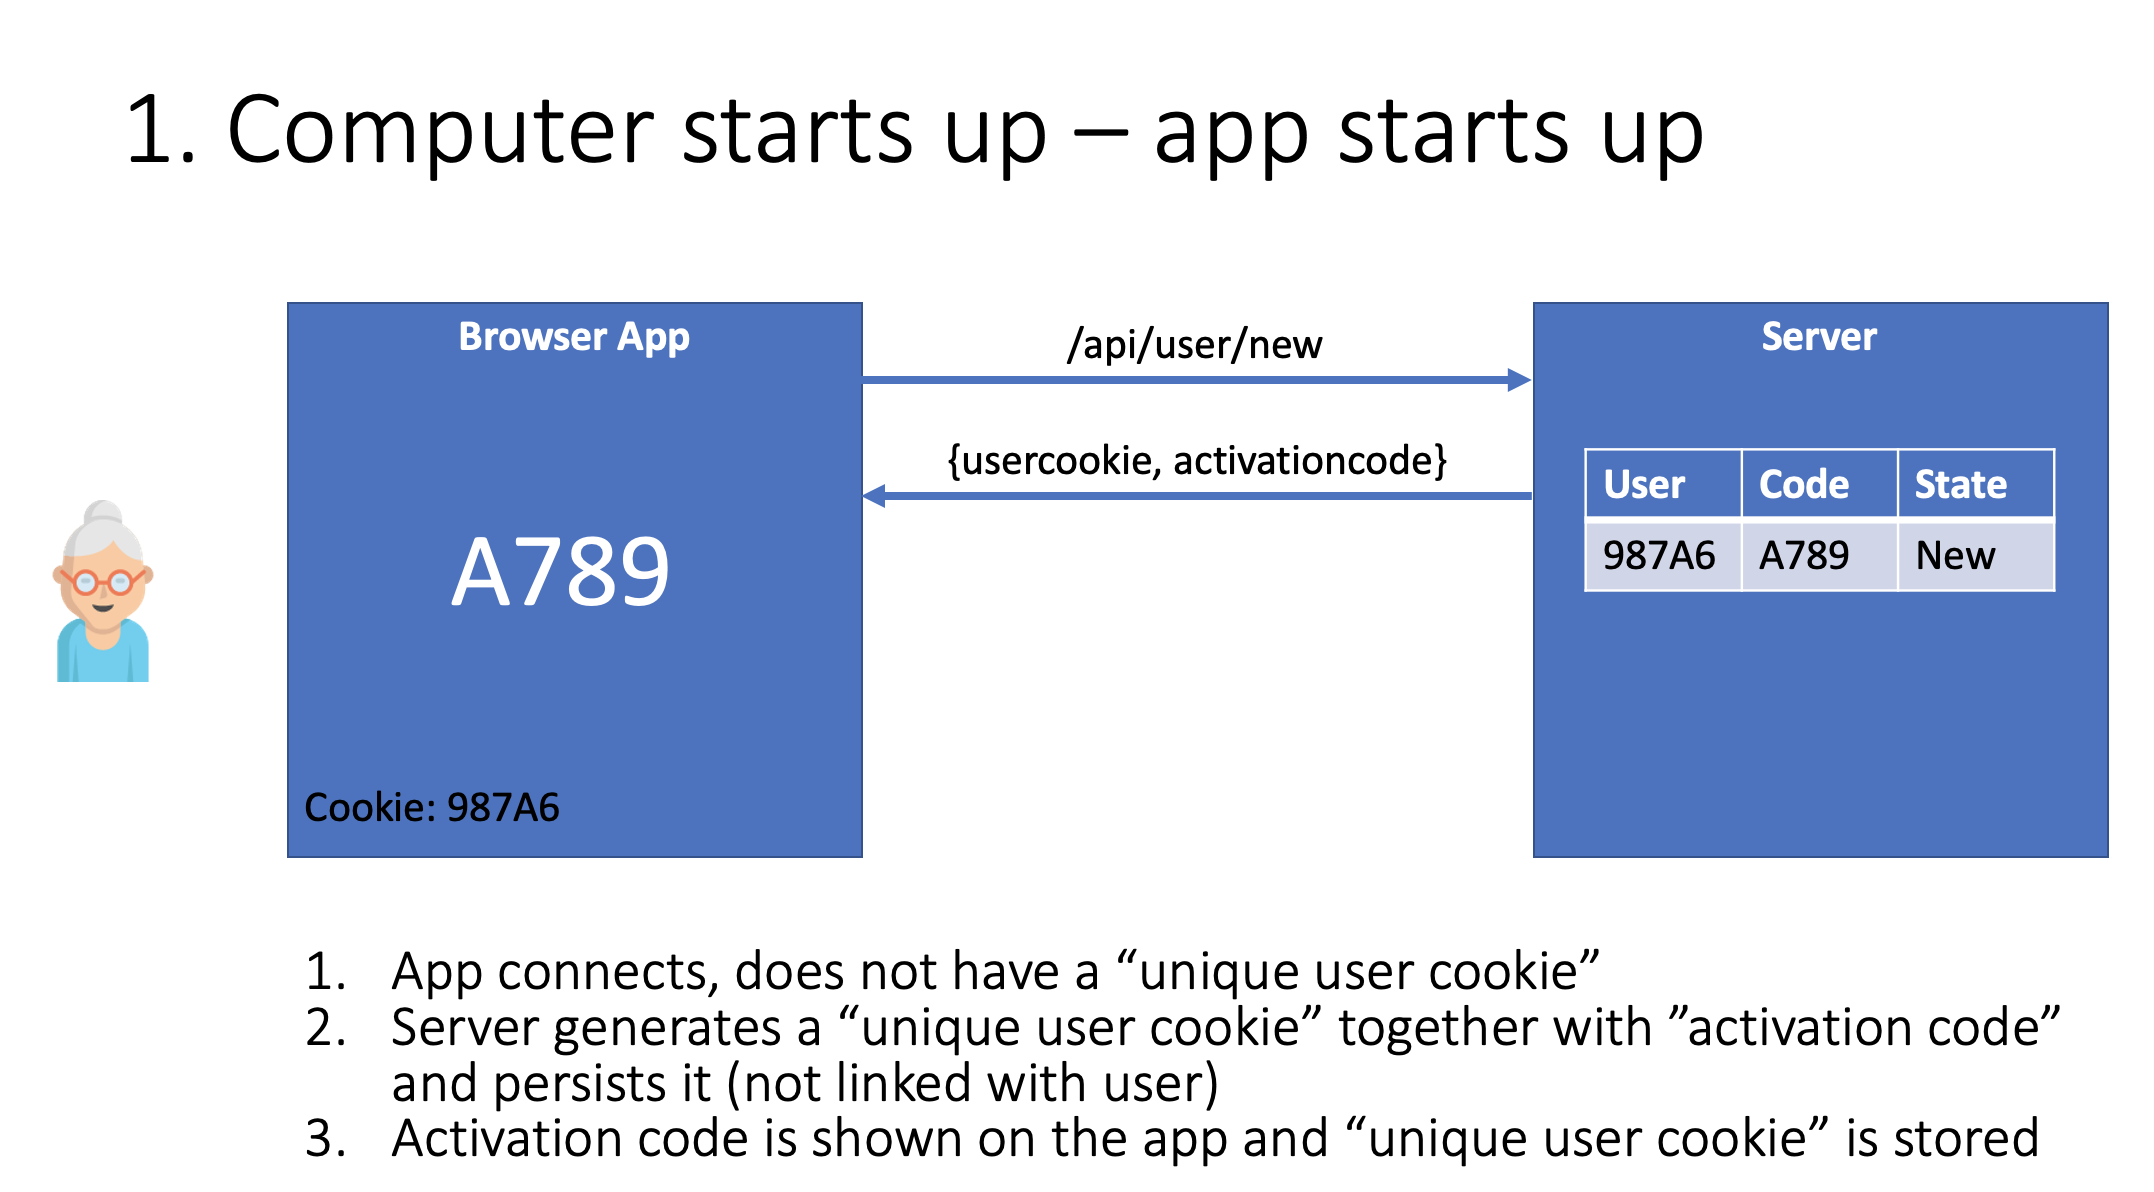
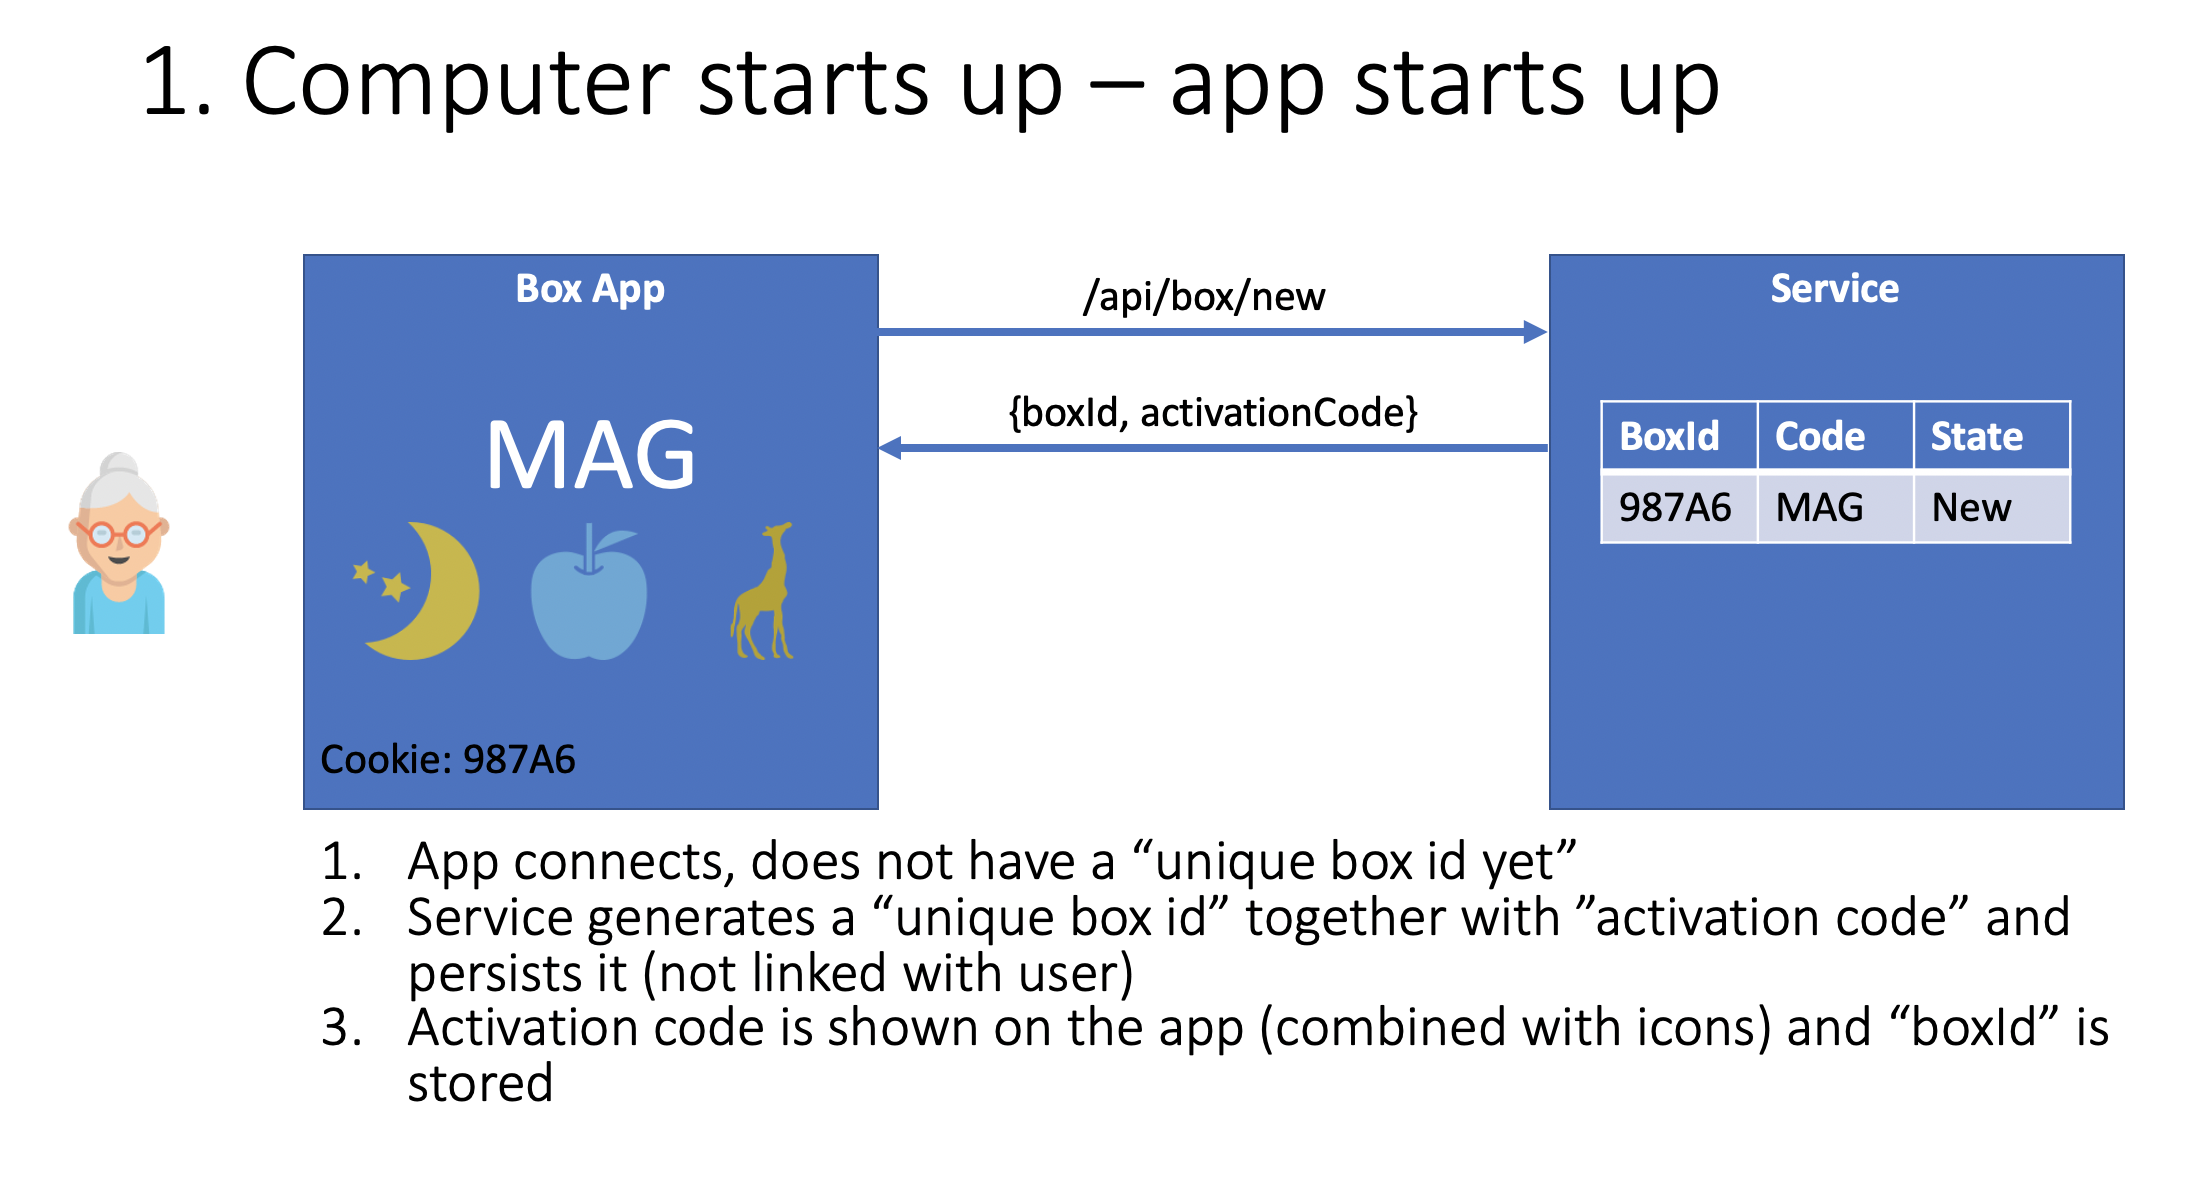
Update docs (#109)
* enable configuration settings

* merge master

* added and updated readme after the hackthecrisis hackathon

* added build badge

diff --git a/README.md b/README.md
@@ -1,11 +1,78 @@
-# Hack The Crisis - Social Connect
-A cloud based application that we build for Hack The Crisis, an attempt to leverage cloud technology to help elderly people in isolation
+![SocialTV Logo](./media/socialtv-logo-blue.png)
 
-## Specs
+### We want to offer a seamless experience for isolated people to stay somewhat connected with friends and family
 
-### Interaction
+[![Build Status](https://dev.azure.com/codit/Hack%20the%20crisis/_apis/build/status/CI?branchName=master)](https://dev.azure.com/codit/Hack%20the%20crisis/_build/latest?definitionId=824&branchName=master)
+
+## Description
+This is a cloud based application that we build for Hack The Crisis, an attempt to leverage cloud technology to help elderly people in isolation
+In these times of crisis (but quite often also in the everyday live), elderly people can become somewhat isolated from their friends and family.  People in an elderly home, people in their own home.  Quite a lot of them have the television as their main 'hobby'.  
+At the same time, the family (grandchildren, children and even great-grandchildren) are exchanging pictures, text images using their modern apps and cell phones. 
+SocialTV wants to embrace both "user types" and bring them together in a seamless, but secure, experience.  
+
+![SocialTV Marchitecture](./media/marchitecture.png)
+
+## Services
+
+Our solution consist of the following parts:
+
+### Television (web app in demo): 
+- Shows activation screen when new
+- Shows pictures and text images in a carrousel mode, automatically adding pictures and messages along the way
+- No need for interaction, just consume/read-only
+
+### Multi-channel Chatbot interface (WhatsApp channel in demo):
+- Allows for family members to activate and connect with the television app
+- Allows for family members to send text messages and images, using their existing communication tools
+- Allows for 'commands' for family admin
+
+### Cloud platform (built on Microsoft Azure):
+- Hosts chatbot experience to handle conversation flow, stream and send messages and connect family members
+- Hosts and dispatches pictures and text messages
+- Exposes functionality through API that can be consumed by apps and devices
+
+## Interaction and conversation flow
+
+### WhatsApp chat conversation flow
+
+- User adds SocialTV as contact, using the provided WhatsApp number
+- User sends first initial activation message
+- Upon successful validation, the user is welcomed and asked for his/her name
+- After sending the name, the user is indicated and asked to send an activation code that appears on the screen of the box (see next section)
+- The user now sends the activation code in reply and gets a confirmation if everything is right (or a warning to retry as the code is incorrect)
+- Now that the user is linked to the box, every message that will be sent (both images and text) will be delivered to the right box through a persisted layer in the cloud.
+
+__Example flow__:
+```
+User > Hi
+
+SocialTV > Welcome to SocialTV, what's your name, please?
+
+User > Robert
+
+SocialTV > Welcome Robert, if you want to link to a box, please send us the activation code that appears on the screen of the box
+
+User > EKDHE
+
+SocialTV > Thanks, the box is now being set up.  You can start sending messages and images to me and I'll show them on the box. 
+```
+
+### Linking family admin with a connected box
 
 ![App Startup](./media/app-startup.png)
 ![App Startup](./media/family-register-client.png)
 
 For more information, see [#3](https://github.com/CoditEU/htc-social-connect/issues/3).
+
+### WhatsApp other family members activation flow
+
+These users (that want to join a conversation with a box) will follow the exact same logic, but they can get the activation code from the family admin and don't have to call the person at the "box-side".  
+
+### System messages
+
+It is possible to send 'system messages' to the bot to ask for information:
+
+- __*exit__: When doing this, a user will be disconnected from a box and has to send an activation code again, to join another (or the same) box
+- __*show__: When doing this, the user gets a link back that shows the box like the end user sees it.
+- __*stats__: (not implemented yet): the user gets a summary of the box (last connected, number of users linked to it, number of messages and images)
+- __*clear__: (not implemented yet): all data for the buser will be removed in the cloud
